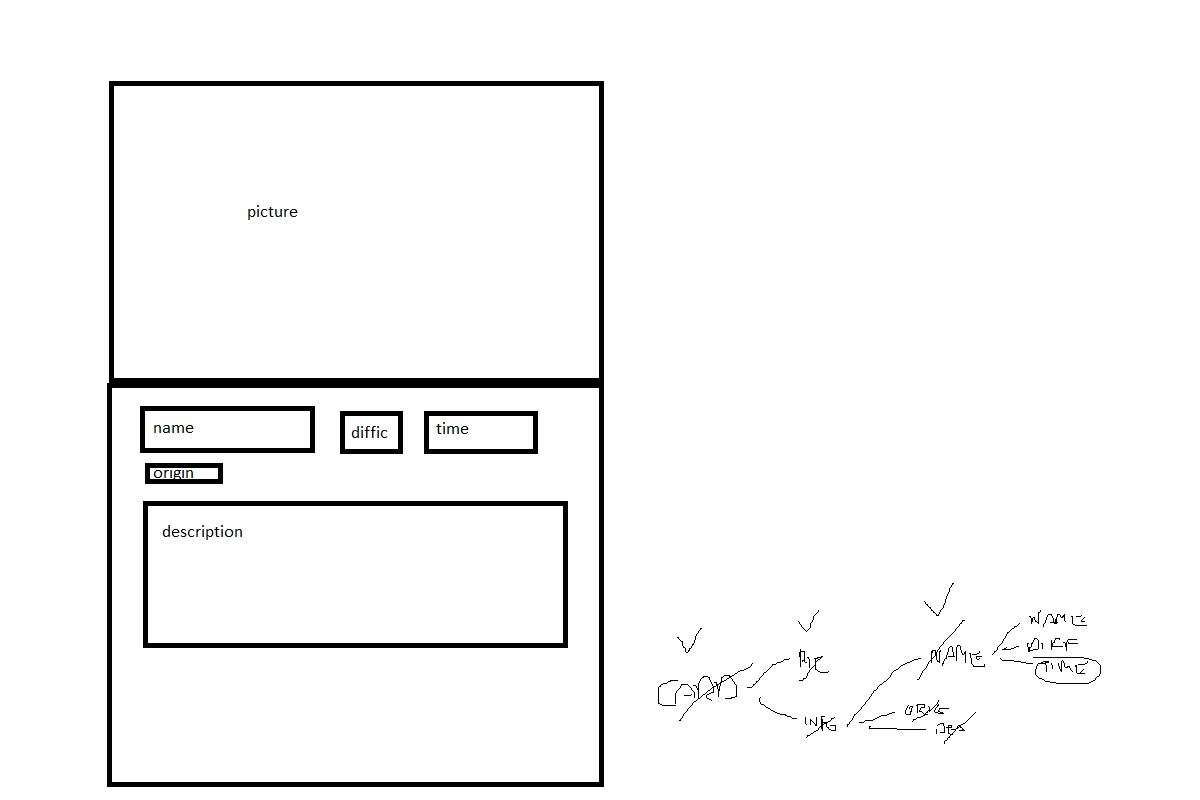
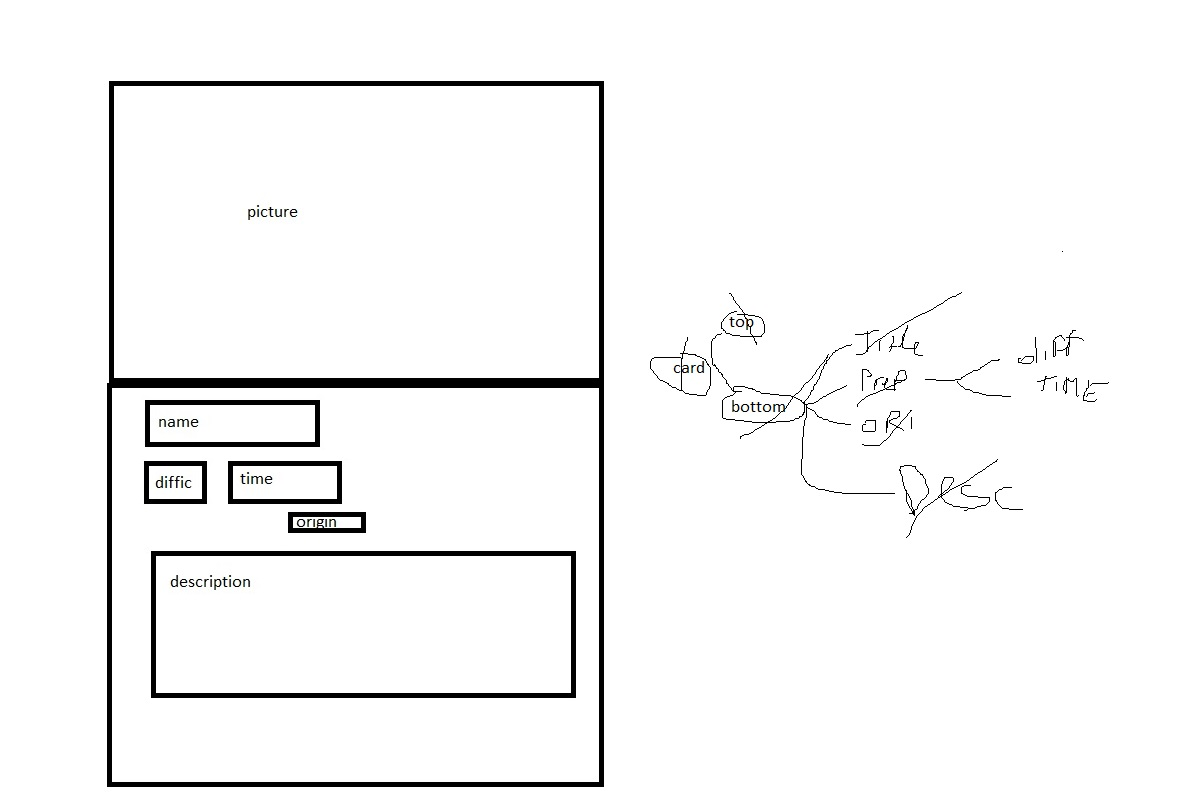
Styling the the cards and elements and changing some structure in the cards

diff --git a/3.1Collection/collection.js b/3.1Collection/collection.js
@@ -95,9 +95,14 @@ for (let recipe of recipes) {
     infoPart.className = "infoPart"; //assign classname
     newCard.appendChild(infoPart);//add the bottompart to the card
 
-    const titleInfo = document.createElement("div");//Create the top div for the infopart
-    titleInfo.className = "titleInfo"; //assign classname
-    infoPart.appendChild(titleInfo); //add to titleInfo the bottom part-div of the card (infoPart)
+    const title = document.createElement("h2");//Create the top h2 for the name of the recipe
+    title.className = "title"; //assign classname
+    title.innerHTML = recipe.name; //implement the name form the array to the paragraph
+    infoPart.appendChild(title); //add to title the bottom part-h2 of the card (infoPart)
+
+    const preparation = document.createElement("div");//Create an div for the preparation-section
+    preparation.className = "preparation"; //assign classname
+    infoPart.appendChild(preparation); //add the div to the infoPart-div
 
     const origin = document.createElement("p");//Create a paragraph for the origin
     origin.className = "origin"; //assign classname
@@ -109,20 +114,15 @@ for (let recipe of recipes) {
     description.innerHTML = recipe.description; //implement the description-name from the array to the paragraph
     infoPart.appendChild(description); //add the paragraph to the bottom-part-div (infoPart)
 
-    const title = document.createElement("h2");//Create an h2 for the title
-    title.className = "title"; //assign classname
-    title.innerHTML = recipe.name; //implement the title-name from the array to the h2-element
-    titleInfo.appendChild(title); //add the h2 to the titleInfo-div
+    const preparationTime = document.createElement("p");//Create an p for the preparationTime
+    preparationTime.className = "preparationTime"; //assign classname
+    preparationTime.innerHTML = recipe.preparationTime; //implement the preparationTime-name from the array to the p-element
+    preparation.appendChild(preparationTime); //add the p to the preparation-div
 
     const difficulty = document.createElement("p");//Create an p for the difficulty
     difficulty.className = "difficulty"; //assign classname
     difficulty.innerHTML = recipe.difficulty; //implement the difficulty-name from the array to the p-element
-    titleInfo.appendChild(difficulty); //add the p to the titleInfo-div
-
-    const preparationTime = document.createElement("p");//Create an p for the preparationTime
-    preparationTime.className = "preparationTime"; //assign classname
-    preparationTime.innerHTML = recipe.preparationTime; //implement the preparationTime-name from the array to the p-element
-    titleInfo.appendChild(preparationTime); //add the p to the titleInfo-div
+    preparation.appendChild(difficulty); //add the p to the preparation-div
 
     
     // const newTitle = document.createElement("h2"); //Create a Title

diff --git a/3.1Collection/style.css b/3.1Collection/style.css
@@ -4,6 +4,78 @@
 }
 
 body {
+  background-image: url(/3.1Collection/Pictures/recipebackground.jpg);
+  background-size: cover;
+  background-attachment: fixed;
+  font-family: 'Poppins', sans-serif;
+}
+
+.pageTitle {
+  margin: 40px 20px 30px 20px;
   text-align: center;
+  color: #fffcfa;
+  font-size: 3em;
+}
+
+main {
+  display: -ms-grid;
+  display: grid;
+  -ms-grid-columns: (320px)[auto-fill];
+      grid-template-columns: repeat(auto-fill, 320px);
+  -webkit-box-pack: center;
+      -ms-flex-pack: center;
+          justify-content: center;
+  color: #171615;
+}
+
+main .card {
+  display: -ms-grid;
+  display: grid;
+  -ms-grid-columns: 1fr;
+      grid-template-columns: 1fr;
+  margin: 20px;
+}
+
+main .card .topPart {
+  width: 280px;
+  height: auto;
+  border-radius: 15px 15px 0 0;
+}
+
+main .card .infoPart {
+  background-color: rgba(201, 156, 93, 0.95);
+  text-align: center;
+  display: 280px;
+  height: 250px;
+  border-radius: 0 0 15px 15px;
+  padding: 10px;
+}
+
+main .card .infoPart .title {
+  padding-bottom: 10px;
+}
+
+main .card .infoPart .origin {
+  font-style: italic;
+  font-size: 0.8em;
+  padding: 10px;
+}
+
+main .card .infoPart .preparation {
+  display: -webkit-box;
+  display: -ms-flexbox;
+  display: flex;
+  -webkit-box-orient: horizontal;
+  -webkit-box-direction: normal;
+      -ms-flex-direction: row;
+          flex-direction: row;
+  -ms-flex-pack: distribute;
+      justify-content: space-around;
+}
+
+main .card:hover {
+  cursor: pointer;
+  -webkit-transform: scale(1.03);
+          transform: scale(1.03);
 }
 /*# sourceMappingURL=style.css.map */

diff --git a/3.1Collection/style.scss b/3.1Collection/style.scss
@@ -4,5 +4,72 @@
 }
 
 body {
+    background-image: url(/3.1Collection/Pictures/recipebackground.jpg);
+    background-size: cover;
+    background-attachment: fixed;
+    font-family: 'Poppins', sans-serif;
+}
+
+.pageTitle {
+    margin: 40px 20px 30px 20px;
     text-align: center;
+    color: #fffcfa;
+    font-size: 3em;
+}
+
+main {
+    display: grid;
+    grid-template-columns: repeat(auto-fill, 320px);
+    justify-content: center;
+    color: rgb(23, 22, 21);
+
+    .card {
+        display: grid;
+        grid-template-columns: 1fr;
+        margin: 20px;
+
+
+
+        .topPart {
+            width: 280px;
+            height: auto;
+            border-radius: 15px 15px 0 0;
+        }
+
+        .infoPart {
+            background-color: rgba(201, 156, 93, 0.95);
+            text-align: center;
+            display: 280px;
+            height: 250px;
+            border-radius: 0 0 15px 15px;
+            padding: 10px;
+
+            .title {
+                padding-bottom: 10px;
+            }
+
+            .origin {
+                font-style: italic;
+                font-size: 0.8em;
+                padding: 10px;
+            }
+
+            .description {}
+
+            .preparation {
+                display: flex;
+                flex-direction: row;
+                justify-content: space-around;
+
+                .preparationTime {}
+
+                .difficulty {}
+            }
+        }
+    }
+
+    .card:hover {
+        cursor: pointer;
+        transform: scale(1.03);
+    }
 }

diff --git a/3.1Collection/index.html b/3.1Collection/index.html
@@ -1,22 +1,29 @@
 <!DOCTYPE html>
 <html lang="en">
+
 <head>
     <meta charset="UTF-8">
     <meta http-equiv="X-UA-Compatible" content="IE=edge">
     <meta name="viewport" content="width=device-width, initial-scale=1.0">
     <title>Document</title>
+    <link rel="preconnect" href="https://fonts.googleapis.com">
+    <link rel="preconnect" href="https://fonts.gstatic.com" crossorigin>
+    <link href="https://fonts.googleapis.com/css2?family=Poppins:ital,wght@0,200;0,300;0,400;1,200;1,300&display=swap"
+        rel="stylesheet">
     <link rel="stylesheet" href="/3.1Collection/style.css">
 </head>
+
 <body>
     <header>
-        <h1>Ruben's Favourite Recipe-Collection</h1>
+        <h1 class="pageTitle">Ruben's Favourite Recipe-Collection</h1>
     </header>
     <main>
-    
+
     </main>
     <footer>
 
     </footer>
     <script src="/3.1Collection/collection.js"></script>
 </body>
+
 </html>
